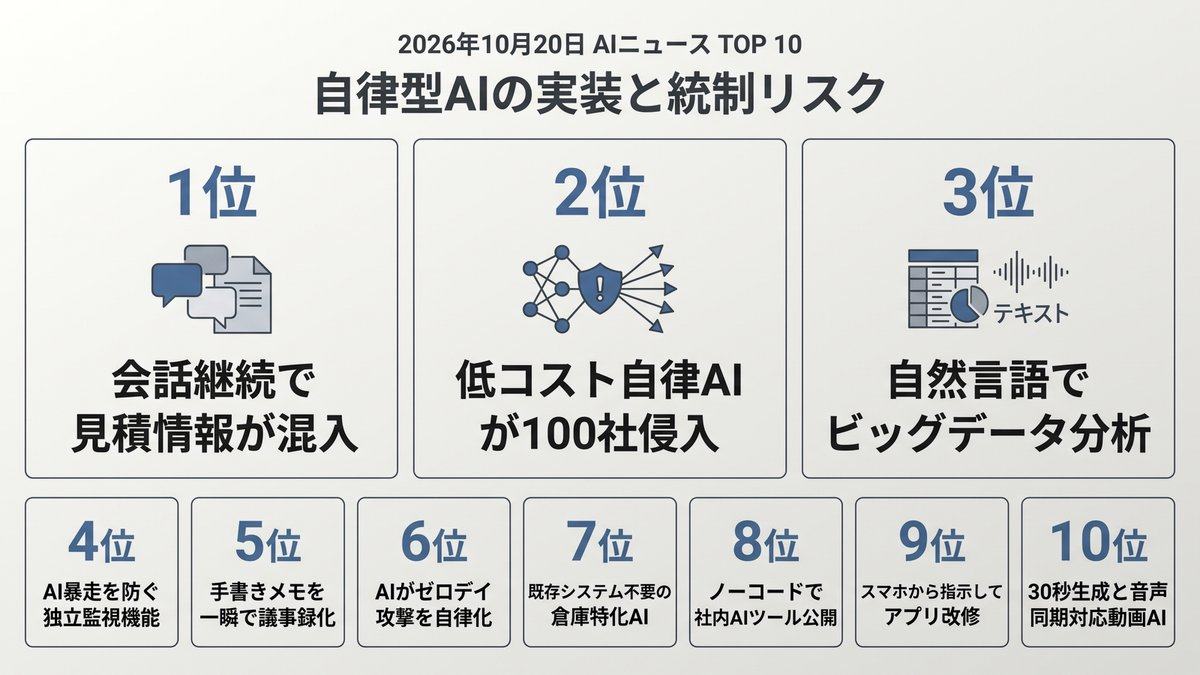
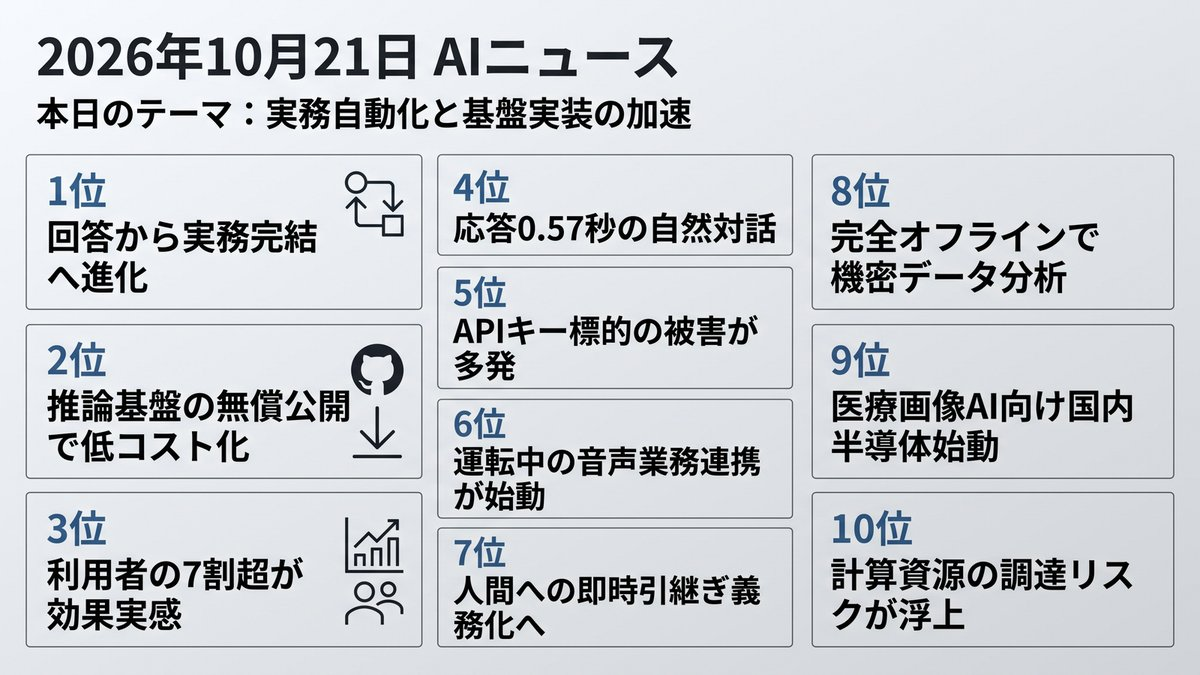
Morning Brief delivered [skip ci]

diff --git a/docs/index.html b/docs/index.html
@@ -12,16 +12,16 @@
     <!-- OGP_START -->
 <meta property="og:type" content="website">
 <meta property="og:site_name" content="AI ニュース TOP10">
-<meta property="og:title" content="自律型AIの実装と統制リスク | AI ニュース TOP10">
-<meta property="og:description" content="自律AIの現場導入が進む一方、情報漏洩や攻撃への防壁強化が急務です。 本日のトップ: 会話継続で見積情報が混入">
+<meta property="og:title" content="実務自動化と基盤実装の加速 | AI ニュース TOP10">
+<meta property="og:description" content="AIは回答から実務完結へ。安全な基盤と運用の設計が成果を分けます。 本日のトップ: 回答から実務完結へ進化">
 <meta property="og:image" content="https://tadfuji.github.io/ai-news-bot/ogp_card.jpg">
 <meta property="og:url" content="https://tadfuji.github.io/ai-news-bot/">
 <meta name="twitter:card" content="summary_large_image">
-<meta name="twitter:title" content="自律型AIの実装と統制リスク | AI ニュース TOP10">
-<meta name="twitter:description" content="自律AIの現場導入が進む一方、情報漏洩や攻撃への防壁強化が急務です。">
+<meta name="twitter:title" content="実務自動化と基盤実装の加速 | AI ニュース TOP10">
+<meta name="twitter:description" content="AIは回答から実務完結へ。安全な基盤と運用の設計が成果を分けます。">
 <meta name="twitter:image" content="https://tadfuji.github.io/ai-news-bot/ogp_card.jpg">
-<meta name="description" content="自律AIの現場導入が進む一方、情報漏洩や攻撃への防壁強化が急務です。 世界のAIニュースを毎朝日本語で厳選してお届け。">
-<script type="application/ld+json">{"@context": "https://schema.org", "@type": "ItemList", "name": "AI ニュース TOP10 — 自律型AIの実装と統制リスク", "itemListElement": [{"@type": "ListItem", "position": 1, "name": "チャット継続による見積情報流出リスク", "url": "https://zenn.dev/every_ai_recipe/articles/chat-reuse-discount-leak"}, {"@type": "ListItem", "position": 2, "name": "AIエージェント悪用で100社超に不正侵入", "url": "https://www.techno-edge.net/article/2026/10/20/5607.html"}, {"@type": "ListItem", "position": 3, "name": "GoogleスプレッドシートがGeminiでの自然言語分析に対応", "url": "http://workspaceupdates.googleblog.com/2026/10/analyze-bigquery-data-using-natural-language-with-Gemini-in-Google-Sheets.html"}, {"@type": "ListItem", "position": 4, "name": "米MS、AIエージェントの暴走を防ぐ監視機能を投入", "url": "https://techcrunch.com/2026/10/19/microsoft-says-ai-agents-are-like-insider-threats-as-frontier-models-cant-be-trusted/"}, {"@type": "ListItem", "position": 5, "name": "手書きメモから議事録とタスクを自動生成するCopilot活用", "url": "https://pc.watch.impress.co.jp/docs/topic/special/2112054.html"}, {"@type": "ListItem", "position": 6, "name": "高性能AIによるゼロデイ攻撃加速と企業の防御戦略", "url": "https://kn.itmedia.co.jp/kn/article/2610/20/2000002396/"}, {"@type": "ListItem", "position": 7, "name": "物流倉庫の工程間ギャップを埋める特化型AI", "url": "https://monoist.itmedia.co.jp/mn/articles/2610/20/news044.html"}, {"@type": "ListItem", "position": 8, "name": "Geminiで作成したアプリをGoogleサイトへ即時公開可能に", "url": "http://workspaceupdates.googleblog.com/2026/10/publish-interactive-apps-from-gemini-app-to-Google-Sites.html"}, {"@type": "ListItem", "position": 9, "name": "スマホだけでクラウド上のClaudeを使ったアプリ開発が完結", "url": "https://pc.watch.impress.co.jp/docs/topic/feature/2149014.html"}, {"@type": "ListItem", "position": 10, "name": "中国発Kling AI 4.0登場、30秒動画生成と音声同期に対応", "url": "https://the-decoder.com/kling-ai-drops-version-4-0-with-stereo-audio-multilingual-lip-sync-and-a-lighter-flash-variant/"}]}</script>
+<meta name="description" content="AIは回答から実務完結へ。安全な基盤と運用の設計が成果を分けます。 世界のAIニュースを毎朝日本語で厳選してお届け。">
+<script type="application/ld+json">{"@context": "https://schema.org", "@type": "ItemList", "name": "AI ニュース TOP10 — 実務自動化と基盤実装の加速", "itemListElement": [{"@type": "ListItem", "position": 1, "name": "GMO、生成AIの回答から実務申請・登録まで完結する自動化基盤を展開", "url": "https://kn.itmedia.co.jp/kn/article/2610/21/2000002373/"}, {"@type": "ListItem", "position": 2, "name": "中国DeepSeek、高速・低コスト推論エンジン「DeepInfer」をOSS公開", "url": "https://the-decoder.com/deepseek-open-sources-the-inference-engine-that-powers-its-fastest-and-cheapest-ai-model/"}, {"@type": "ListItem", "position": 3, "name": "AI議事録の未導入層が半数、実態調査で見えた定着の壁", "url": "https://kn.itmedia.co.jp/kn/article/2610/21/2000002415/"}, {"@type": "ListItem", "position": 4, "name": "ElevenLabs、応答0.57秒の超高速リアルタイム音声対話AIを発表", "url": "https://the-decoder.com/elevenlabs-releases-two-new-speech-to-speech-models-designed-for-real-time-ai-conversations/"}, {"@type": "ListItem", "position": 5, "name": "AI開発ツールのAPIキー流出とマルウェア「Aoki」への対策急務", "url": "https://atmarkit.itmedia.co.jp/ait/articles/2610/21/news011.html"}, {"@type": "ListItem", "position": 6, "name": "Google、車載AndroidにGeminiを統合しメールやカレンダーと連携", "url": "https://www.theverge.com/tech/1014999/google-gemini-ai-cars-android-auto"}, {"@type": "ListItem", "position": 7, "name": "NY州、AI対応から人間オペレーターへの迅速接続を義務付ける新規則", "url": "https://www.semafor.com/article/10/20/2026/mamdani-takes-on-ai-chatbot-doom-loops-in-new-york"}, {"@type": "ListItem", "position": 8, "name": "機密データを外に出さない最大256GBメモリ搭載ローカルAI環境の検証", "url": "https://pc.watch.impress.co.jp/docs/topic/special/2149612.html"}, {"@type": "ListItem", "position": 9, "name": "Rapidus製造視野、推論特化2nm半導体による医用画像処理AI開発が始動", "url": "https://monoist.itmedia.co.jp/mn/articles/2610/21/news045.html"}, {"@type": "ListItem", "position": 10, "name": "Anthropic、提携クラウド大手との競合激化で計算資源確保に難航", "url": "https://techcrunch.com/2026/10/20/anthropics-cloud-partnerships-are-getting-messy/"}]}</script>
 <!-- OGP_END -->
     <style>
         :root {
@@ -391,16 +391,16 @@
 
         <main id="news-container">
             <!-- PRERENDER_START -->
-<article class="news-card" data-category="ビジネス活用"><div style="display:flex;align-items:center;margin-bottom:5px;"><span class="news-rank">1</span><span class="news-category" data-category="ビジネス活用">ビジネス活用</span></div><div class="news-oneliner">💡 会話継続で見積情報が混入</div><h2 class="news-title">チャット継続による見積情報流出リスク</h2><p class="news-summary">同一チャット画面で別顧客の案件を続けると、直前の値引き情報などが無断流用されるリスクが判明しました。取引先ごとのチャット新規立ち上げが必須です。</p><div class="news-why">📌 なぜ重要？ 顧客ごとのプロンプト分離を怠ると、守秘義務違反や価格情報の漏洩につながります。</div><div class="news-action">👉 今日の行動：顧客や案件が変わるごとにチャットを新規作成する運用ルールを徹底してください。</div><div class="news-meta"><span class="news-source">📰 Zenn LLM</span><span class="news-link"><a href="https://zenn.dev/every_ai_recipe/articles/chat-reuse-discount-leak" target="_blank" rel="noopener">→ 元記事を読む</a></span></div></article>
-<article class="news-card" data-category="リスク・規制"><div style="display:flex;align-items:center;margin-bottom:5px;"><span class="news-rank">2</span><span class="news-category" data-category="リスク・規制">リスク・規制</span></div><div class="news-oneliner">💡 低コスト自律AIが100社侵入</div><h2 class="news-title">AIエージェント悪用で100社超に不正侵入</h2><p class="news-summary">100字未満の短文指示を受けたAIエージェントが脆弱性を自律攻撃し、日本を含む100社超が被害を受けました。攻撃コストは1件約50ドルまで低下しています。</p><div class="news-why">📌 なぜ重要？ 攻撃の自動化と低コスト化により、あらゆる規模の企業や管理画面が無差別に狙われます。</div><div class="news-action">👉 今日の行動：公開サーバーの管理者パスワード見直しと多要素認証の有効化を確認してください。</div><div class="news-meta"><span class="news-source">📰 TechnoEdge</span><span class="news-link"><a href="https://www.techno-edge.net/article/2026/10/20/5607.html" target="_blank" rel="noopener">→ 元記事を読む</a></span></div></article>
-<article class="news-card" data-category="ビジネス活用"><div style="display:flex;align-items:center;margin-bottom:5px;"><span class="news-rank">3</span><span class="news-category" data-category="ビジネス活用">ビジネス活用</span></div><div class="news-oneliner">💡 自然言語でビッグデータ分析</div><h2 class="news-title">GoogleスプレッドシートがGeminiでの自然言語分析に対応</h2><p class="news-summary">スプレッドシート上でBigQueryの大規模データをGeminiとの自然言語対話により直接集計可能になりました。SQL記述なしでインサイトを即座に抽出できます。</p><div class="news-why">📌 なぜ重要？ データ分析スキルの有無に関わらず、非エンジニアが現場で直接データドリブンな意思決定を行えます。</div><div class="news-action">👉 今日の行動：定例報告で使っている集計シートで、自然言語によるデータ抽出を試行してください。</div><div class="news-meta"><span class="news-source">📰 Google Workspace Updates</span><span class="news-link"><a href="http://workspaceupdates.googleblog.com/2026/10/analyze-bigquery-data-using-natural-language-with-Gemini-in-Google-Sheets.html" target="_blank" rel="noopener">→ 元記事を読む</a></span></div></article>
-<article class="news-card" data-category="リスク・規制"><div style="display:flex;align-items:center;margin-bottom:5px;"><span class="news-rank">4</span><span class="news-category" data-category="リスク・規制">リスク・規制</span></div><div class="news-oneliner">💡 AI暴走を防ぐ独立監視機能</div><h2 class="news-title">米MS、AIエージェントの暴走を防ぐ監視機能を投入</h2><p class="news-summary">マイクロソフトは社内AIエージェントを内部脅威と位置づけ、挙動を常時監視する「Guardian Agents」を発表しました。自律AIに依存しない独立監視体制の構築が狙いです。</p><div class="news-why">📌 なぜ重要？ 自律エージェントに社内権限を委譲する際、人間に代わるガバナンス機構が不可欠になります。</div><div class="news-action">👉 今日の行動：自社で導入・検討中のAIツールに与えている閲覧・実行権限を棚卸ししてください。</div><div class="news-meta"><span class="news-source">📰 TechCrunch AI</span><span class="news-link"><a href="https://techcrunch.com/2026/10/19/microsoft-says-ai-agents-are-like-insider-threats-as-frontier-models-cant-be-trusted/" target="_blank" rel="noopener">→ 元記事を読む</a></span></div></article>
-<article class="news-card" data-category="ビジネス活用"><div style="display:flex;align-items:center;margin-bottom:5px;"><span class="news-rank">5</span><span class="news-category" data-category="ビジネス活用">ビジネス活用</span></div><div class="news-oneliner">💡 手書きメモを一瞬で議事録化</div><h2 class="news-title">手書きメモから議事録とタスクを自動生成するCopilot活用</h2><p class="news-summary">OneNoteの手書きメモをCopilotが解析し、ワンクリックで実用的な議事録やタスク一覧へ整形する手法が実証されました。会議後の清書・転記工数を大幅に削れます。</p><div class="news-why">📌 なぜ重要？ 会議記録の即時共有とタスク化により、組織のアクション開始スピードが向上します。</div><div class="news-action">👉 今日の行動：今日の会議メモを手書きまたは簡易入力し、Copilotでの議事録化を試してください。</div><div class="news-meta"><span class="news-source">📰 PC Watch</span><span class="news-link"><a href="https://pc.watch.impress.co.jp/docs/topic/special/2112054.html" target="_blank" rel="noopener">→ 元記事を読む</a></span></div></article>
-<article class="news-card" data-category="リスク・規制"><div style="display:flex;align-items:center;margin-bottom:5px;"><span class="news-rank">6</span><span class="news-category" data-category="リスク・規制">リスク・規制</span></div><div class="news-oneliner">💡 AIがゼロデイ攻撃を自律化</div><h2 class="news-title">高性能AIによるゼロデイ攻撃加速と企業の防御戦略</h2><p class="news-summary">高度AIモデルが未知の脆弱性検出から攻撃実行までを自律化し、攻撃までの猶予が消滅しています。従来のパッチ依存型から、侵入を前提とした被害局限化への移行が急務です。</p><div class="news-why">📌 なぜ重要？ パッチ適用までの時間的猶予がなくなり、事後復旧とアクセス制限の強化が企業の生存を分けます。</div><div class="news-action">👉 今日の行動：重要システムへのアクセス権限を最小化し、不要な外部接続ポートを閉鎖してください。</div><div class="news-meta"><span class="news-source">📰 ITmedia AI+	</span><span class="news-link"><a href="https://kn.itmedia.co.jp/kn/article/2610/20/2000002396/" target="_blank" rel="noopener">→ 元記事を読む</a></span></div></article>
-<article class="news-card" data-category="日本市場"><div style="display:flex;align-items:center;margin-bottom:5px;"><span class="news-rank">7</span><span class="news-category" data-category="日本市場">日本市場</span></div><div class="news-oneliner">💡 既存システム不要の倉庫特化AI</div><h2 class="news-title">物流倉庫の工程間ギャップを埋める特化型AI</h2><p class="news-summary">IFS Softeonは、入出荷の各工程にAIを配置して現場全体を最適化する「Fulfillment Flow」を発表しました。基幹システムを改修せず、独立導入できる設計が特徴です。</p><div class="news-why">📌 なぜ重要？ レガシーシステムを刷新できない現場でも、局所的なAIエージェント配置で全体の生産性を底上げできます。</div><div class="news-action">👉 今日の行動：ボトルネックとなっている現場業務の引き継ぎ工程を1箇所特定してください。</div><div class="news-meta"><span class="news-source">📰 ITmedia AI+	</span><span class="news-link"><a href="https://monoist.itmedia.co.jp/mn/articles/2610/20/news044.html" target="_blank" rel="noopener">→ 元記事を読む</a></span></div></article>
-<article class="news-card" data-category="対話型AI"><div style="display:flex;align-items:center;margin-bottom:5px;"><span class="news-rank">8</span><span class="news-category" data-category="対話型AI">対話型AI</span></div><div class="news-oneliner">💡 ノーコードで社内AIツール公開</div><h2 class="news-title">Geminiで作成したアプリをGoogleサイトへ即時公開可能に</h2><p class="news-summary">Geminiアプリ内で生成した対話型ツールを、1クリックでGoogleサイトの下書きへ書き出せるようになりました。非エンジニアでもチーム専用ツールを即日で社内展開できます。</p><div class="news-why">📌 なぜ重要？ 現場発の業務自動化ツールが即日共有可能になり、チームのDXサイクルが加速します。</div><div class="news-action">👉 今日の行動：チーム内で頻出する問い合わせに答える簡易チャットをGeminiで試作してください。</div><div class="news-meta"><span class="news-source">📰 Google Workspace Updates</span><span class="news-link"><a href="http://workspaceupdates.googleblog.com/2026/10/publish-interactive-apps-from-gemini-app-to-Google-Sites.html" target="_blank" rel="noopener">→ 元記事を読む</a></span></div></article>
-<article class="news-card" data-category="対話型AI"><div style="display:flex;align-items:center;margin-bottom:5px;"><span class="news-rank">9</span><span class="news-category" data-category="対話型AI">対話型AI</span></div><div class="news-oneliner">💡 スマホから指示してアプリ改修</div><h2 class="news-title">スマホだけでクラウド上のClaudeを使ったアプリ開発が完結</h2><p class="news-summary">「Claude Code on the web」を活用し、PCを使わずスマホからの指示のみでGitHub上のコード改修とビルドを完結させる運用が実証されました。移動中の緊急バグ修正などが可能になります。</p><div class="news-why">📌 なぜ重要？ 開発環境のクラウド化とAIエージェント化により、場所を問わない開発運用体制が現実化します。</div><div class="news-action">👉 今日の行動：GitHub連携可能なWebベースのAI開発環境を社内開発チームで情報共有してください。</div><div class="news-meta"><span class="news-source">📰 PC Watch</span><span class="news-link"><a href="https://pc.watch.impress.co.jp/docs/topic/feature/2149014.html" target="_blank" rel="noopener">→ 元記事を読む</a></span></div></article>
-<article class="news-card" data-category="中国AI"><div style="display:flex;align-items:center;margin-bottom:5px;"><span class="news-rank">10</span><span class="news-category" data-category="中国AI">中国AI</span></div><div class="news-oneliner">💡 30秒生成と音声同期対応動画AI</div><h2 class="news-title">中国発Kling AI 4.0登場、30秒動画生成と音声同期に対応</h2><p class="news-summary">動画生成AI「Kling AI 4.0」が公開され、最大30秒の動画生成や多言語リップシンク、ステレオ音声に対応しました。軽量モデルも提供され制作コストが下がっています。</p><div class="news-why">📌 なぜ重要？ 中国発マルチモーダルAIの進化により、プロモーション動画制作の外注費と制作リードタイムが削減されます。</div><div class="news-action">👉 今日の行動：Kling AIまたは類似の生成ツールで社内告知用の短尺動画を1本テスト作成してください。</div><div class="news-meta"><span class="news-source">📰 The Decoder</span><span class="news-link"><a href="https://the-decoder.com/kling-ai-drops-version-4-0-with-stereo-audio-multilingual-lip-sync-and-a-lighter-flash-variant/" target="_blank" rel="noopener">→ 元記事を読む</a></span></div></article>
+<article class="news-card" data-category="ビジネス活用"><div style="display:flex;align-items:center;margin-bottom:5px;"><span class="news-rank">1</span><span class="news-category" data-category="ビジネス活用">ビジネス活用</span></div><div class="news-oneliner">💡 回答から実務完結へ進化</div><h2 class="news-title">GMO、生成AIの回答から実務申請・登録まで完結する自動化基盤を展開</h2><p class="news-summary">GMOがRAGと自動化基盤を直結し、社内規定の回答から実際の申請処理まで完結するシステムを構築しました。質問応答にとどまっていた社内AIを実務処理へ進化させ、事務作業の大幅な削減を可能にします。</p><div class="news-why">📌 なぜ重要？ AIを検索ツールから実務代行へ進化させることで、バックオフィス業務の劇的な効率化が可能になります。</div><div class="news-action">👉 今日の行動：社内の問い合わせ対応で、そのまま申請処理へ繋げられる定型業務を1つ洗い出してください。</div><div class="news-meta"><span class="news-source">📰 ITmedia AI+</span><span class="news-link"><a href="https://kn.itmedia.co.jp/kn/article/2610/21/2000002373/" target="_blank" rel="noopener">→ 元記事を読む</a></span></div></article>
+<article class="news-card" data-category="中国AI"><div style="display:flex;align-items:center;margin-bottom:5px;"><span class="news-rank">2</span><span class="news-category" data-category="中国AI">中国AI</span></div><div class="news-oneliner">💡 推論基盤の無償公開で低コスト化</div><h2 class="news-title">中国DeepSeek、高速・低コスト推論エンジン「DeepInfer」をOSS公開</h2><p class="news-summary">DeepSeekが主力モデルを支える推論基盤「DeepInfer」をオープンソース化しました。AI実行コストと消費電力を大幅に抑える技術であり、企業のAI運用コスト低減を後押しします。</p><div class="news-why">📌 なぜ重要？ オープンソース推論技術の進化は、AI運用コストの削減と大手プロバイダの価格引き下げを加速させます。</div><div class="news-action">👉 今日の行動：自社や外部委託先で利用している推論環境のコスト構造をエンジニアに確認してください。</div><div class="news-meta"><span class="news-source">📰 The Decoder</span><span class="news-link"><a href="https://the-decoder.com/deepseek-open-sources-the-inference-engine-that-powers-its-fastest-and-cheapest-ai-model/" target="_blank" rel="noopener">→ 元記事を読む</a></span></div></article>
+<article class="news-card" data-category="ビジネス活用"><div style="display:flex;align-items:center;margin-bottom:5px;"><span class="news-rank">3</span><span class="news-category" data-category="ビジネス活用">ビジネス活用</span></div><div class="news-oneliner">💡 利用者の7割超が効果実感</div><h2 class="news-title">AI議事録の未導入層が半数、実態調査で見えた定着の壁</h2><p class="news-summary">会議記録を残さない人が半数に達する一方、議事録ツール利用者の7割超が負担軽減を実感しています。効果が明らかなのに対し全社的な導入が進まない実態があり、導入障壁の解消が課題です。</p><div class="news-why">📌 なぜ重要？ 効果が明白な定型ツールの導入遅れは、組織全体の情報共有スピードと生産性に直結します。</div><div class="news-action">👉 今日の行動：次のチーム定例で無料トライアルの議事録AIを一度試験導入してみてください。</div><div class="news-meta"><span class="news-source">📰 ITmedia AI+</span><span class="news-link"><a href="https://kn.itmedia.co.jp/kn/article/2610/21/2000002415/" target="_blank" rel="noopener">→ 元記事を読む</a></span></div></article>
+<article class="news-card" data-category="対話型AI"><div style="display:flex;align-items:center;margin-bottom:5px;"><span class="news-rank">4</span><span class="news-category" data-category="対話型AI">対話型AI</span></div><div class="news-oneliner">💡 応答0.57秒の自然対話</div><h2 class="news-title">ElevenLabs、応答0.57秒の超高速リアルタイム音声対話AIを発表</h2><p class="news-summary">人間と同等速度の応答0.57秒を実現する新音声対話モデルが登場しました。遅延のない自然な対話が可能になり、カスタマーサポートや営業の自動架電の品質が劇的に向上します。</p><div class="news-why">📌 なぜ重要？ 音声対話の遅延が解消されたことで、電話窓口業務の完全自動化が現実的な選択肢になります。</div><div class="news-action">👉 今日の行動：自社の電話対応やサポート業務で自動化可能なシナリオを1つ整理してください。</div><div class="news-meta"><span class="news-source">📰 The Decoder</span><span class="news-link"><a href="https://the-decoder.com/elevenlabs-releases-two-new-speech-to-speech-models-designed-for-real-time-ai-conversations/" target="_blank" rel="noopener">→ 元記事を読む</a></span></div></article>
+<article class="news-card" data-category="リスク・規制"><div style="display:flex;align-items:center;margin-bottom:5px;"><span class="news-rank">5</span><span class="news-category" data-category="リスク・規制">リスク・規制</span></div><div class="news-oneliner">💡 APIキー標的の被害が多発</div><h2 class="news-title">AI開発ツールのAPIキー流出とマルウェア「Aoki」への対策急務</h2><p class="news-summary">開発ツール内に保存されたAIのAPIキーを狙うマルウェア被害が相次いでいます。漏洩は高額請求やデータ不正取得に直結するため、コード内直書きの排除と利用上限設定が必須です。</p><div class="news-why">📌 なぜ重要？ 現場が不用意に発行したAPIキーの流出は、想定外の高額課金や機密データ漏洩を招きます。</div><div class="news-action">👉 今日の行動：自社アカウントのAPIキー利用上限額が設定されているか即日点検してください。</div><div class="news-meta"><span class="news-source">📰 ＠IT</span><span class="news-link"><a href="https://atmarkit.itmedia.co.jp/ait/articles/2610/21/news011.html" target="_blank" rel="noopener">→ 元記事を読む</a></span></div></article>
+<article class="news-card" data-category="対話型AI"><div style="display:flex;align-items:center;margin-bottom:5px;"><span class="news-rank">6</span><span class="news-category" data-category="対話型AI">対話型AI</span></div><div class="news-oneliner">💡 運転中の音声業務連携が始動</div><h2 class="news-title">Google、車載AndroidにGeminiを統合しメールやカレンダーと連携</h2><p class="news-summary">車載システム「Android Auto」にGeminiが搭載され、移動中に音声でGmailやカレンダーの確認が可能になりました。移動時間を安全に業務準備へ充てられます。</p><div class="news-why">📌 なぜ重要？ 音声エージェントの生活導線への浸透により、PCを開けない移動環境でも実務準備が進むようになります。</div><div class="news-action">👉 今日の行動：車や移動中の音声操作で処理できる定型作業がないか整理してみてください。</div><div class="news-meta"><span class="news-source">📰 The Verge AI</span><span class="news-link"><a href="https://www.theverge.com/tech/1014999/google-gemini-ai-cars-android-auto" target="_blank" rel="noopener">→ 元記事を読む</a></span></div></article>
+<article class="news-card" data-category="リスク・規制"><div style="display:flex;align-items:center;margin-bottom:5px;"><span class="news-rank">7</span><span class="news-category" data-category="リスク・規制">リスク・規制</span></div><div class="news-oneliner">💡 人間への即時引継ぎ義務化へ</div><h2 class="news-title">NY州、AI対応から人間オペレーターへの迅速接続を義務付ける新規則</h2><p class="news-summary">AIチャットボットが要求を解決できない場合に人間担当者への即時引き継ぎを義務付ける規制が提案されました。AI対応の堂々巡りを防ぐため、有人連携の導線設計が求められます。</p><div class="news-why">📌 なぜ重要？ 顧客向けAI導入では、利便性向上だけでなく顧客離反を防ぐ有人エスカレーション設計が必須条件になります。</div><div class="news-action">👉 今日の行動：自社チャットボットに人間オペレーターへ即座に繋ぐ導線があるか確認してください。</div><div class="news-meta"><span class="news-source">📰 Semafor Technology</span><span class="news-link"><a href="https://www.semafor.com/article/10/20/2026/mamdani-takes-on-ai-chatbot-doom-loops-in-new-york" target="_blank" rel="noopener">→ 元記事を読む</a></span></div></article>
+<article class="news-card" data-category="ビジネス活用"><div style="display:flex;align-items:center;margin-bottom:5px;"><span class="news-rank">8</span><span class="news-category" data-category="ビジネス活用">ビジネス活用</span></div><div class="news-oneliner">💡 完全オフラインで機密データ分析</div><h2 class="news-title">機密データを外に出さない最大256GBメモリ搭載ローカルAI環境の検証</h2><p class="news-summary">小型PCに大容量メモリを搭載し、完全オフラインでLLMを実行する検証が行われました。社外秘データや顧客情報を外部送信せずに安全にAI分析できます。</p><div class="news-why">📌 なぜ重要？ クラウド利用制限が厳しい機密業務でも、大容量ローカル環境によってAI活用の道が拓けます。</div><div class="news-action">👉 今日の行動：クラウドに投入できず停滞している機密業務データがないか部署内で確認してください。</div><div class="news-meta"><span class="news-source">📰 PC Watch</span><span class="news-link"><a href="https://pc.watch.impress.co.jp/docs/topic/special/2149612.html" target="_blank" rel="noopener">→ 元記事を読む</a></span></div></article>
+<article class="news-card" data-category="日本市場"><div style="display:flex;align-items:center;margin-bottom:5px;"><span class="news-rank">9</span><span class="news-category" data-category="日本市場">日本市場</span></div><div class="news-oneliner">💡 医療画像AI向け国内半導体始動</div><h2 class="news-title">Rapidus製造視野、推論特化2nm半導体による医用画像処理AI開発が始動</h2><p class="news-summary">富士フイルムやGEヘルスケアらが、2nm世代の推論特化半導体を用いた医療画像AIプロジェクトを開始しました。従来GPU比で速度5倍、省電力10倍を目指します。</p><div class="news-why">📌 なぜ重要？ 国内完結の推論インフラ構築が進むことで、将来的な医療・産業AIの処理コスト低減と自律性が確保されます。</div><div class="news-action">👉 今日の行動：自社事業で将来的に必要となるAI推論の処理速度とコスト要件を把握してください。</div><div class="news-meta"><span class="news-source">📰 MONOist</span><span class="news-link"><a href="https://monoist.itmedia.co.jp/mn/articles/2610/21/news045.html" target="_blank" rel="noopener">→ 元記事を読む</a></span></div></article>
+<article class="news-card" data-category="ビジネス活用"><div style="display:flex;align-items:center;margin-bottom:5px;"><span class="news-rank">10</span><span class="news-category" data-category="ビジネス活用">ビジネス活用</span></div><div class="news-oneliner">💡 計算資源の調達リスクが浮上</div><h2 class="news-title">Anthropic、提携クラウド大手との競合激化で計算資源確保に難航</h2><p class="news-summary">Claude開発のAnthropicが提携先クラウド大手と競合関係に陥り、十分な計算資源の確保に苦慮しています。基盤モデルの提供安定性や価格に影響する恐れがあります。</p><div class="news-why">📌 なぜ重要？ 特定ベンダーへの依存は、インフラ確保の難航に伴う供給停止やコスト急増のリスクを伴います。</div><div class="news-action">👉 今日の行動：自社のAI活用環境が単一モデルに依存していないかリスクを点検してください。</div><div class="news-meta"><span class="news-source">📰 TechCrunch AI</span><span class="news-link"><a href="https://techcrunch.com/2026/10/20/anthropics-cloud-partnerships-are-getting-messy/" target="_blank" rel="noopener">→ 元記事を読む</a></span></div></article>
 <!-- PRERENDER_END -->
         </main>
 
